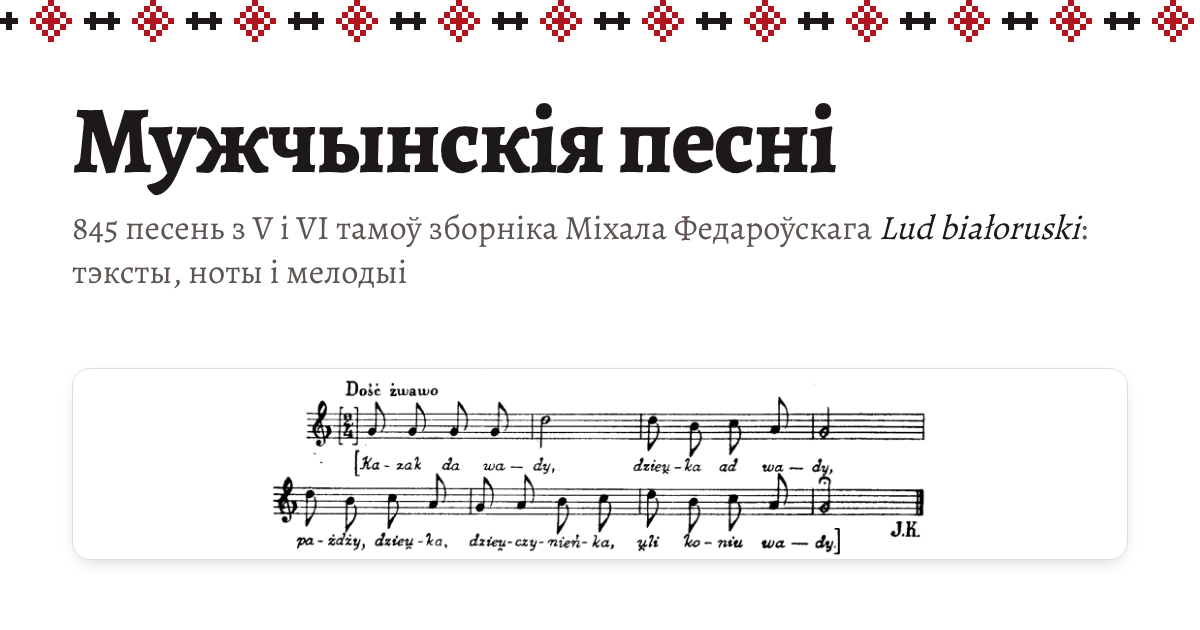
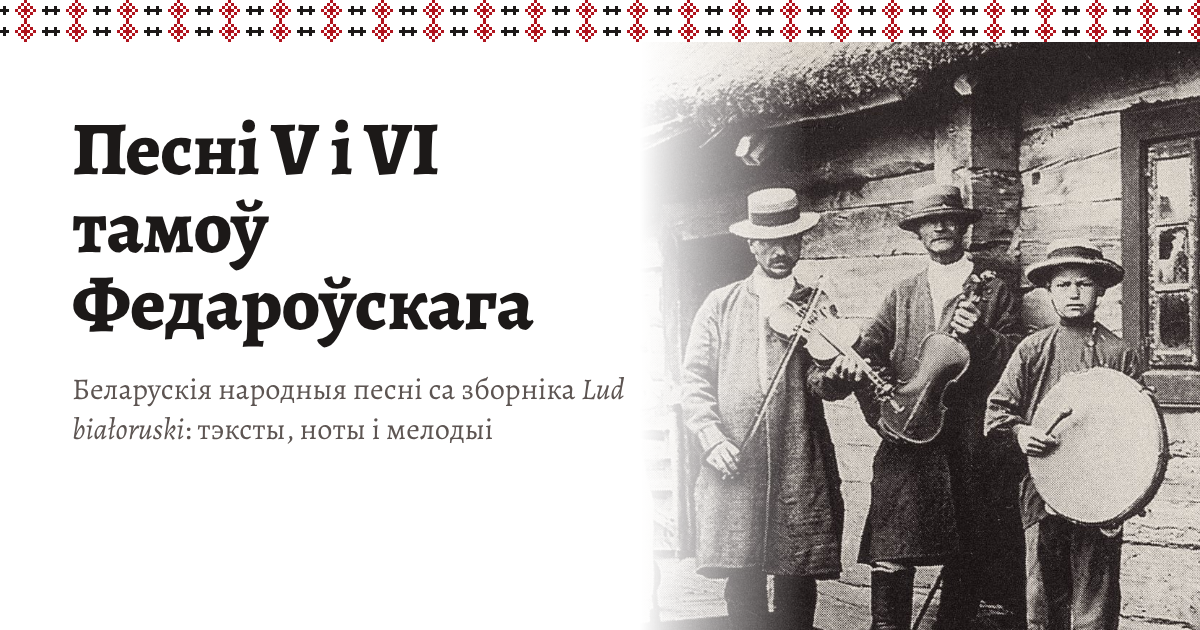
Назва і апісанне без колькасці песень, noindex да прэзентацыі; ціхія пазнакі, «Памылка?» і «Падзяліцца» ля «Раздрукаваць»; «6 / 3 833»; Бел · Pol · Eng
Claude-Session: https://claude.ai/code/session_01CEQNff8ZAwdNM3ScmNnhaj

diff --git a/index.html b/index.html
@@ -3,13 +3,15 @@
 <head>
 <meta charset="utf-8">
 <meta name="viewport" content="width=device-width, initial-scale=1, viewport-fit=cover">
-<title>Мужчынскія песні — Федароўскі, т. V–VI</title>
-<meta name="description" content="931 мужчынская песня з V і VI тамоў «Lud białoruski na Rusi Litewskiej» Міхала Федароўскага: тэксты кірыліцай і ў арыгінале, ноты і мелодыі для праслухоўвання.">
+<title>Песні V і VI тамоў Федароўскага</title>
+<meta name="description" content="Беларускія народныя песні з V і VI тамоў «Lud białoruski na Rusi Litewskiej» Міхала Федароўскага: тэксты кірыліцай і ў арыгінале, ноты і мелодыі для праслухоўвання.">
+<!-- not for search engines until the public launch (planned 2026–2027, likely at ludby.org); remove this line then -->
+<meta name="robots" content="noindex">
 <!-- link previews in messengers and social networks; og:image needs the site's full address -->
 <meta property="og:type" content="website">
-<meta property="og:site_name" content="Мужчынскія песні">
-<meta property="og:title" content="Мужчынскія песні — Федароўскі, т. V–VI">
-<meta property="og:description" content="931 мужчынская песня з зборніка Міхала Федароўскага: тэксты, ноты і мелодыі для праслухоўвання.">
+<meta property="og:site_name" content="Песні Федароўскага">
+<meta property="og:title" content="Песні V і VI тамоў Федароўскага">
+<meta property="og:description" content="Беларускія народныя песні са зборніка Міхала Федароўскага: тэксты, ноты і мелодыі для праслухоўвання.">
 <meta property="og:url" content="https://dimavak.github.io/muzhchynskija-pesni/">
 <meta property="og:image" content="https://dimavak.github.io/muzhchynskija-pesni/og-image.png">
 <meta property="og:image:width" content="1200">
@@ -205,6 +207,7 @@ h1, h2, h3 { text-wrap: balance; }
 .flink:hover { text-decoration-thickness: 2px; }
 .apparatus .flink, .apparatus a { display: inline-block; padding: 4px 0; margin: -2px 0; }
 .crumbbar .grow { flex: 1; }
+.crumbbar > .num { font-size: 16px; color: var(--ink); padding: 0 2px; white-space: nowrap; }
 .print-src, .print-url { display: none; }
 .chips { display: flex; flex-wrap: wrap; gap: 6px; padding: 4px 10px 12px; }
 .chip { border: 1px solid var(--rule-2); background: transparent; border-radius: 8px; min-height: 36px; padding: 4px 10px; font-size: 15px; text-align: left; color: var(--ink); transition: background-color .15s, border-color .15s; max-width: 100%; }
@@ -242,6 +245,14 @@ h1, h2, h3 { text-wrap: balance; }
 button.pill:hover, a.pill:hover { background: var(--hover); color: var(--ink); }
 .pill svg { width: 16px; height: 16px; fill: var(--thread); }
 .pill svg.own { fill: var(--own); }
+.tag { display: inline-flex; align-items: center; gap: 5px; min-height: 32px; padding: 0 4px; font-size: 15px; color: var(--ink-2); text-decoration: none; }
+.tag svg { width: 16px; height: 16px; fill: var(--ref); }
+.tag svg.own { fill: var(--own); }
+a.tag.men { color: #1d4f91; text-decoration: underline; text-decoration-thickness: 1px; text-underline-offset: 3px; }
+a.tag.men:hover { text-decoration-thickness: 2px; }
+:root[data-theme="dark"] a.tag.men { color: #8fb6ff; }
+@media (prefers-color-scheme: dark) { :root:not([data-theme="light"]) a.tag.men { color: #8fb6ff; } }
+@media (max-width: 600px) { #printBtn .pl-t { display: none; } #printBtn { padding: 2px 9px; } }
 .grid { display: grid; grid-template-columns: minmax(0, 1fr) minmax(240px, 300px); gap: 0 48px; align-items: start; }
 .score-sec { max-width: 1040px; }
 .main-col { min-width: 0; }
@@ -425,6 +436,11 @@ dialog.corr-dlg::backdrop { background: rgba(18, 12, 12, .5); }
 .lang-sel select { appearance: none; -webkit-appearance: none; height: 44px; padding: 0 28px 0 12px; border: 0; border-radius: 22px; background: transparent; color: inherit; font: inherit; font-weight: 500; letter-spacing: .02em; cursor: pointer; transition: background-color .15s, color .15s; }
 .lang-sel select:hover { background: var(--hover); color: var(--ink); }
 .lang-sel select option { color: #1c1918; background: #ffffff; }
+.lang-row { display: none; align-items: center; gap: 2px; flex: none; color: var(--ink-3); }
+.lang-row a { display: inline-grid; place-items: center; min-width: 44px; height: 44px; padding: 0 6px; border-radius: 22px; color: var(--ink-2); text-decoration: none; font-weight: 500; }
+.lang-row a:hover { background: var(--hover); color: var(--ink); }
+.lang-row a[aria-current] { color: var(--thread); font-weight: 700; }
+@media (min-width: 1000px) { .lang-row { display: inline-flex; } .lang-sel { display: none; } }
 .lang-sel svg { position: absolute; right: 8px; width: 18px; height: 18px; fill: currentColor; pointer-events: none; }
 .mapv { max-width: 1120px; }
 .mapv h1 { font: 800 clamp(30px, 4.2vw, 46px)/1.08 var(--serif); letter-spacing: -.015em; margin: 4px 0 10px; }
@@ -732,7 +748,8 @@ a.place { text-decoration: none; }
       </a>
       <span class="spacer"></span>
       <a class="map-link" href="#map" id="mapLink" aria-label="Мапа мясцін"><svg class="i" viewBox="0 0 24 24" aria-hidden="true"><path d="M20.5 3l-.16.03L15 5.1 9 3 3.36 4.9c-.21.07-.36.25-.36.48V20.5c0 .28.22.5.5.5l.16-.03L9 18.9l6 2.1 5.64-1.9c.21-.07.36-.25.36-.48V3.5c0-.28-.22-.5-.5-.5zM15 19l-6-2.11V5l6 2.11V19z"/></svg><span data-t>Мапа</span></a>
-      <label class="lang-sel"><span class="vh" data-t>Мова сайта</span><select id="lang"><option value="be" lang="be">BY</option><option value="pl" lang="pl">PL</option><option value="en" lang="en">EN</option></select><svg viewBox="0 0 24 24" aria-hidden="true" focusable="false"><path d="M7 10l5 5 5-5z"/></svg></label>
+      <label class="lang-sel"><span class="vh" data-t>Мова сайта</span><select id="lang"><option value="be" lang="be">Бел</option><option value="pl" lang="pl">Pol</option><option value="en" lang="en">Eng</option></select><svg viewBox="0 0 24 24" aria-hidden="true" focusable="false"><path d="M7 10l5 5 5-5z"/></svg></label>
+      <nav class="lang-row" aria-label="Мова сайта"><a href="?" data-lang="be" lang="be">Бел</a><span aria-hidden="true">·</span><a href="?lang=pl" data-lang="pl" lang="pl">Pol</a><span aria-hidden="true">·</span><a href="?lang=en" data-lang="en" lang="en">Eng</a></nav>
       <button class="icon-btn" id="theme" aria-label="Змяніць тэму"></button>
     </div>
   </header>
@@ -860,6 +877,11 @@ a.place { text-decoration: none; }
       var q = u.toString(), to = location.pathname + (q ? '?' + q : '') + location.hash;
       if (to === location.pathname + location.search + location.hash) location.reload(); else location.href = to;
     });
+    // on wide screens the three languages stand in a row: Бел · Pol · Eng
+    document.querySelectorAll('.lang-row a').forEach(function (a) {
+      if (a.getAttribute('data-lang') === LANG) a.setAttribute('aria-current', 'true');
+      a.addEventListener('click', function (e) { e.preventDefault(); sel.value = a.getAttribute('data-lang'); sel.dispatchEvent(new Event('change')); });
+    });
   })();
   var ADULT = !!window.ADULT, NAME = t(ADULT ? 'Фрывольныя песні' : ALL ? 'Усе песні' : 'Мужчынскія песні'), MAIN = location.pathname + (BE ? '' : '?lang=' + LANG), A18 = location.pathname + '?r=18' + (BE ? '' : '&lang=' + LANG);
   // men's catalogue: its own band, a hollow rhombus with hooks ("рог") between small crosses, on top of the blue colours
@@ -918,6 +940,7 @@ a.place { text-decoration: none; }
     search: 'M15.5 14h-.79l-.28-.27A6.471 6.471 0 0 0 16 9.5 6.5 6.5 0 1 0 9.5 16c1.61 0 3.09-.59 4.23-1.57l.27.28v.79l5 4.99L20.49 19l-4.99-5zm-6 0C7.01 14 5 11.99 5 9.5S7.01 5 9.5 5 14 7.01 14 9.5 11.99 14 9.5 14z',
     map: 'M20.5 3l-.16.03L15 5.1 9 3 3.36 4.9c-.21.07-.36.25-.36.48V20.5c0 .28.22.5.5.5l.16-.03L9 18.9l6 2.1 5.64-1.9c.21-.07.36-.25.36-.48V3.5c0-.28-.22-.5-.5-.5zM15 19l-6-2.11V5l6 2.11V19z',
     flag: 'M14.4 6 14 4H5v17h2v-7h5.6l.4 2h7V6z',
+    share: 'M18 16.08c-.76 0-1.44.3-1.96.77L8.91 12.7c.05-.23.09-.46.09-.7s-.04-.47-.09-.7l7.05-4.11A2.99 2.99 0 0 0 21 5a3 3 0 1 0-5.91.7L8.04 9.81A2.99 2.99 0 0 0 3 12a3 3 0 0 0 5.04 2.19l7.12 4.16c-.05.21-.08.43-.08.65A2.92 2.92 0 1 0 18 16.08z',
     edit: 'M3 17.25V21h3.75L17.81 9.94l-3.75-3.75L3 17.25zM20.71 7.04a1 1 0 0 0 0-1.41l-2.34-2.34a1 1 0 0 0-1.41 0l-1.83 1.83 3.75 3.75 1.83-1.83z',
     print: 'M19 8H5c-1.66 0-3 1.34-3 3v6h4v4h12v-4h4v-6c0-1.66-1.34-3-3-3zm-3 11H8v-5h8v5zm3-7c-.55 0-1-.45-1-1s.45-1 1-1 1 .45 1 1-.45 1-1 1zm-1-9H6v4h12V3z'
   };
@@ -946,6 +969,14 @@ a.place { text-decoration: none; }
   var fold = function (s) { return String(s || '').normalize('NFD').replace(/[̀-ͯ]/g, '').toLowerCase().replace(/ł/g, 'l'); };
   var hasMusic = function (s) { return s.group === 'own' || s.group === 'ref'; };
   var nf = new Intl.NumberFormat(LANG === 'be' ? 'ru' : LANG);   // Belarusian groups thousands with a space, as Russian does
+  // the phone opens its own share sheet, a computer copies the link
+  function shareSong() {
+    var url = location.href, title = document.title;
+    if (navigator.share && matchMedia('(pointer: coarse)').matches) { navigator.share({ title: title, url: url }).catch(function () {}); return; }
+    var done = function () { snack(t('Спасылка скапіявана')); };
+    if (navigator.clipboard && navigator.clipboard.writeText) navigator.clipboard.writeText(url).then(done, function () { prompt(t('Спасылка'), url); });
+    else prompt(t('Спасылка'), url);
+  }
   function snack(msg) { var el = $('snack'); el.textContent = msg; el.classList.add('on'); clearTimeout(snack.tm); snack.tm = setTimeout(function () { el.classList.remove('on'); }, 2600); }
   function isDark() { return st.theme ? st.theme === 'dark' : matchMedia('(prefers-color-scheme: dark)').matches; }
 
@@ -1584,18 +1615,20 @@ a.place { text-decoration: none; }
   function renderSong(s) {
     var h = [], i = visible.indexOf(s), p = i > 0 ? visible[i - 1] : null, n = i >= 0 && i < visible.length - 1 ? visible[i + 1] : null;
     h.push('<nav class="crumbbar" aria-label="' + t('Гартаць песні') + '"><button class="icon-btn" id="prev" aria-label="' + t('Папярэдняя песня') + '"' + (p ? '' : ' disabled') + '>' + svg('prev') + '</button>' +
-      '<span class="num">' + (i >= 0 ? t('{a} з {b}', { a: nf.format(i + 1), b: nf.format(visible.length) }) : '') + '</span>' +
+      '<span class="num">' + (i >= 0 ? nf.format(i + 1) + ' / ' + nf.format(visible.length) : '') + '</span>' +
       '<button class="icon-btn" id="next" aria-label="' + t('Наступная песня') + '"' + (n ? '' : ' disabled') + '>' + svg('next') + '</button>' +
-      '<span class="grow"></span><button class="pill" id="printBtn">' + svg('print', '') + t('Раздрукаваць') + '</button></nav>');
+      '<span class="grow"></span>' + (corrOn ? '<button class="pill" id="corrBtn" title="' + t('Паведаміць пра памылку') + '">' + svg('flag', '') + t('Памылка?') + '</button>' : '') +
+      '<button class="pill" id="printBtn">' + svg('print', '') + '<span class="pl-t">' + t('Раздрукаваць') + '</span></button>' +
+      '<button class="icon-btn" id="shareBtn" aria-label="' + t('Падзяліцца') + '" title="' + t('Падзяліцца') + '">' + svg('share') + '</button></nav>');
 
     h.push('<h1 class="song-title"><span class="no num"><small>' + NO + '</small>' + esc(s.id) + '</span>' + (BE ? esc(stress(s.title)) : '<span' + titleLang(s) + '>' + esc(T(s)) + '</span>') + '</h1>');
     h.push('<p class="print-src">' + t('Федароўскі М.') + ' Lud białoruski na Rusi Litewskiej, ' + pageRef(s.vol, s.page) + '. ' + (s.region ? esc(tv(s.region)) + ', ' : '') + '<span lang="pl">' + esc(s.header) + '</span>.' +
       (s.informant.length ? ' ' + t('Ад каго запісана') + ': ' + (BE ? s.informant_cyr.map(function (x) { return esc(x.replace(/́/g, '')); }) : s.informant.map(function (x) { return esc(noGrave(x)); })).join(', ') + '.' : '') + '</p>');
     h.push('<div class="subline"><button class="pill" data-facet-set="cat" data-value="' + esc(s.cat) + '" aria-label="' + esc(t('Паказаць усе песні тыпу «{c}»', { c: tv(s.cat) })) + '">' + esc(tv(s.cat)) + '</button>');
-    if (ALL && !ADULT) h.push('<span class="pill">' + t(s.men ? 'ёсць у мужчынскім каталогу' : 'толькі ў агульным каталогу') + '</span>');
-    if (s.group === 'own') h.push('<span class="pill">' + noteIcon(s) + t('свае ноты') + '</span>');
-    else if (s.group === 'ref') h.push('<span class="pill">' + noteIcon(s) + t('на мелодыю № {n}', { n: esc(s.refm.filter(function (r) { return r.imgs.length; }).map(function (r) { return r.n; }).join(', ')) }) + '</span>');
-    if (corrOn) h.push('<button class="pill" id="corrBtn">' + svg('flag', '') + t('Паведаміць пра памылку') + '</button>');
+    // quiet tags describe the song; only buttons and links look like buttons
+    if (ALL && !ADULT && s.men) h.push('<a class="tag men" href="?k=men' + (BE ? '' : '&lang=' + LANG) + '#' + esc(s.id) + '" title="' + t('Адкрыць у мужчынскім каталогу') + '">' + t('мужчынская') + '</a>');
+    if (s.group === 'own') h.push('<span class="tag">' + noteIcon(s) + t('свае ноты') + '</span>');
+    else if (s.group === 'ref') h.push('<span class="tag">' + noteIcon(s) + t('на мелодыю № {n}', { n: esc(s.refm.filter(function (r) { return r.imgs.length; }).map(function (r) { return r.n; }).join(', ')) }) + '</span>');
     if (likesOn) h.push('<a class="pill" href="#likes" id="toLikes">' + svg('heart', '') + '<span>' + t('Адзначыць') + '</span><span class="num" id="likeCount"></span></a>');
     h.push('</div>');
 
@@ -2018,6 +2051,7 @@ a.place { text-decoration: none; }
     var pb = t.closest('[data-place]'); if (pb) { focusPlace(pb.getAttribute('data-place')); return; }
     if (t.closest('#homeSearch')) { openMenu(); $('q').focus(); return; }
     if (t.closest('#printBtn')) { stopPlay(); window.print(); return; }
+    if (t.closest('#shareBtn')) { shareSong(); return; }
     var zb = t.closest('.zoom-btn'); if (zb) { openZoom(zb.getAttribute('data-src')); return; }
     if (t.tagName === 'IMG' && t.matches(PH_SEL)) { phOpen(t); return; }
     if (t.closest('#prev')) return go(-1);

diff --git a/i18n.js b/i18n.js
@@ -16,6 +16,13 @@
     ["Мужчынскія песні — Федароўскі, т. V–VI", "Pieśni męskie — Federowski, t. V–VI", "Men’s songs — Federowski, vols. V–VI"],
     ["Фрывольныя песні (18+) — Федароўскі, т. VIa", "Pieśni frywolne (18+) — Federowski, t. VIa", "Bawdy songs (18+) — Federowski, vol. VIa"],
     ["931 мужчынская песня з V і VI тамоў «Lud białoruski na Rusi Litewskiej» Міхала Федароўскага: тэксты кірыліцай і ў арыгінале, ноты і мелодыі для праслухоўвання.", "931 męskich pieśni z tomów V i VI „Ludu białoruskiego na Rusi Litewskiej” Michała Federowskiego: teksty w oryginale i cyrylicą, nuty i melodie do odsłuchania.", "931 men’s songs from volumes V and VI of Michał Federowski’s Lud białoruski na Rusi Litewskiej: lyrics in the original and in Cyrillic, sheet music and tunes to listen to."],
+    ["Беларускія народныя песні з V і VI тамоў «Lud białoruski na Rusi Litewskiej» Міхала Федароўскага: тэксты кірыліцай і ў арыгінале, ноты і мелодыі для праслухоўвання.", "Białoruskie pieśni ludowe z tomów V i VI „Ludu białoruskiego na Rusi Litewskiej” Michała Federowskiego: teksty w oryginale i cyrylicą, nuty i melodie do odsłuchania.", "Belarusian folk songs from volumes V and VI of Michał Federowski’s “Lud białoruski na Rusi Litewskiej”: lyrics in the original and in Cyrillic, scores and melodies to listen to."],
+    ["Памылка?", "Błąd?", "Error?"],
+    ["Падзяліцца", "Udostępnij", "Share"],
+    ["Спасылка скапіявана", "Link skopiowany", "Link copied"],
+    ["Спасылка", "Link", "Link"],
+    ["мужчынская", "męska", "men’s"],
+    ["Адкрыць у мужчынскім каталогу", "Otwórz w katalogu pieśni męskich", "Open in the men’s catalogue"],
     ["Мапа", "Mapa", "Map"],
     ["Мапа мясцін", "Mapa miejscowości", "Map of places"],
     ["Мова сайта", "Język strony", "Site language"],
